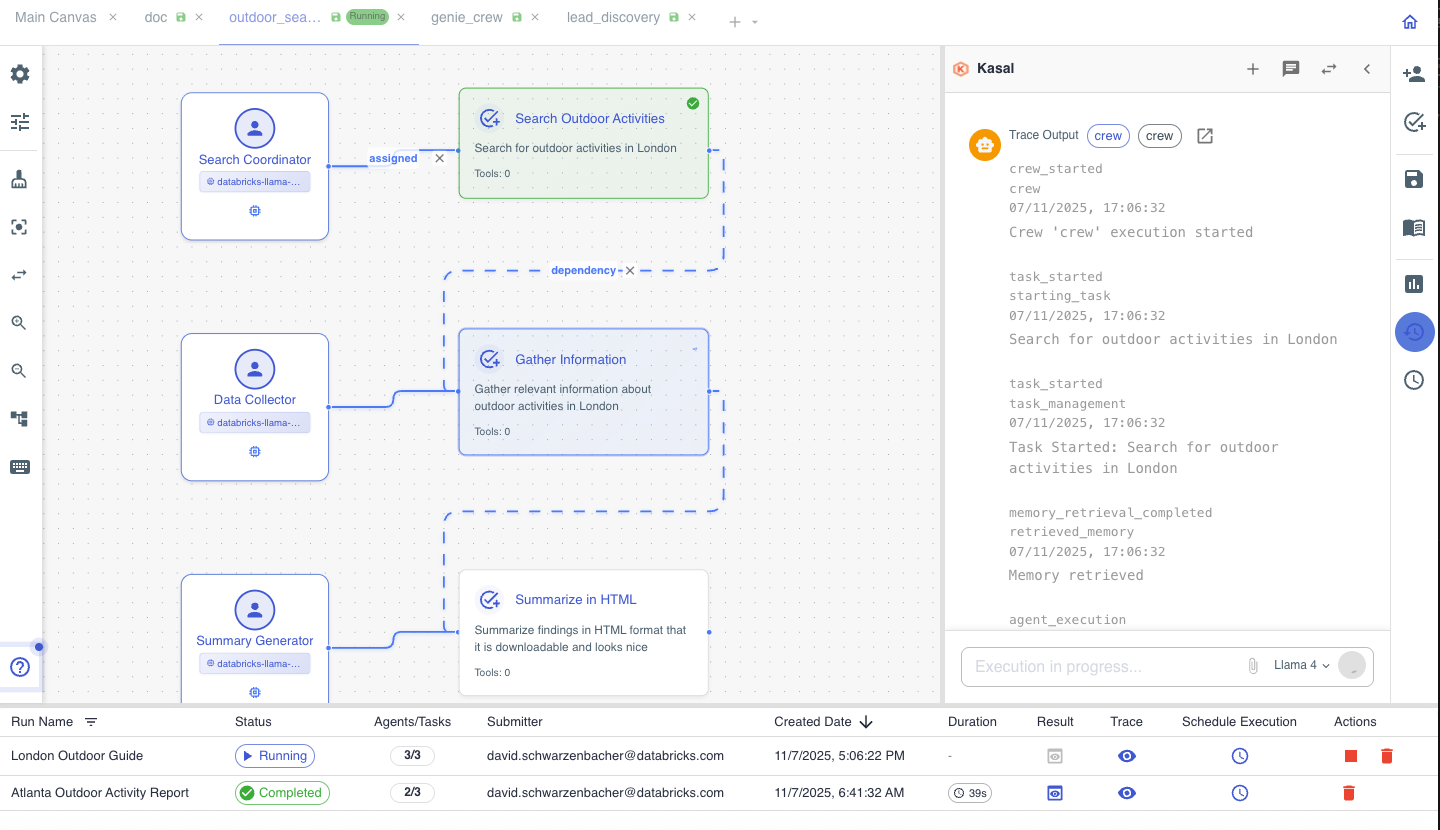
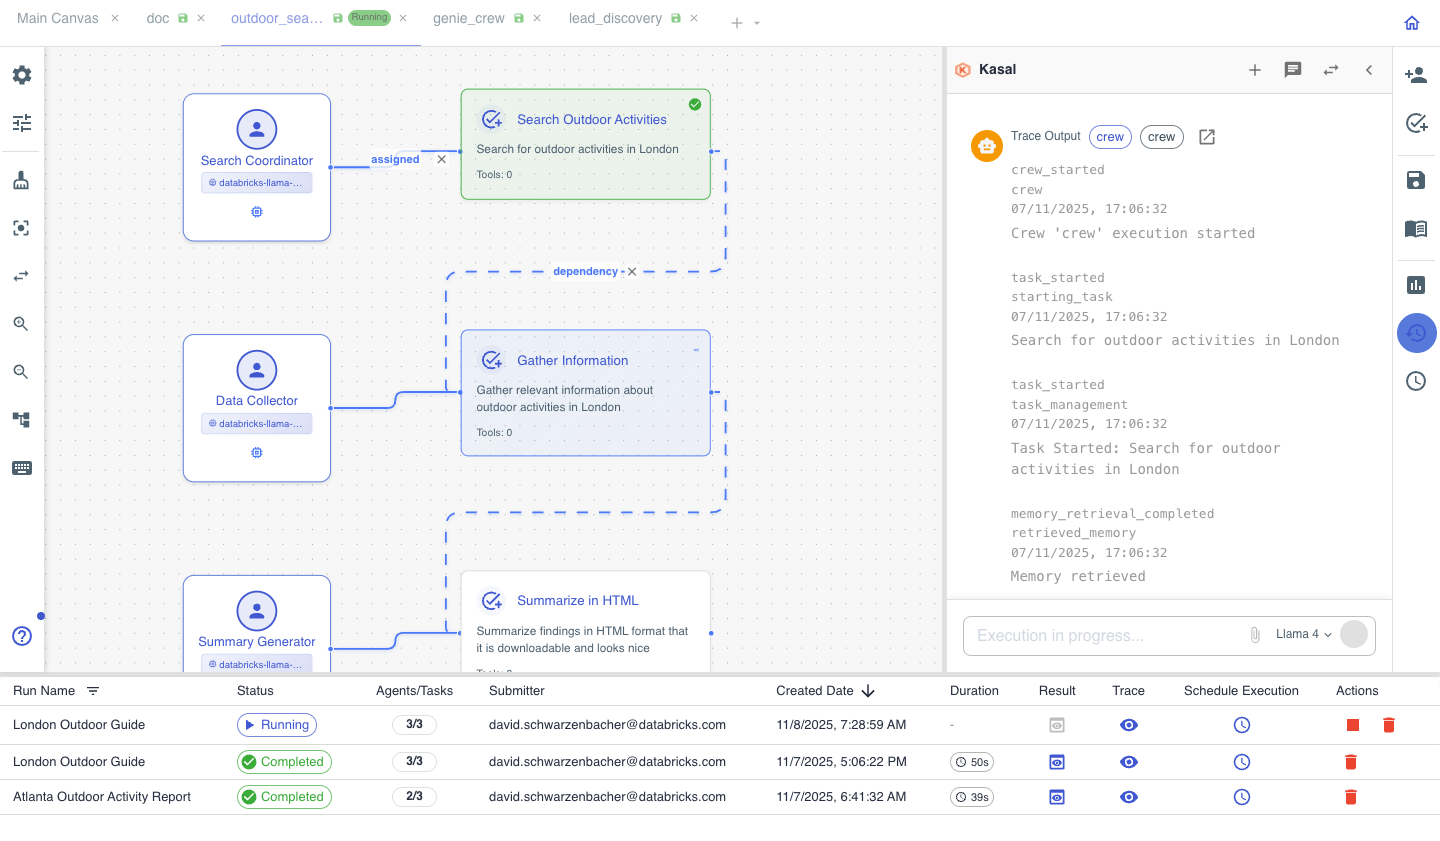
README optical fix

diff --git a/README.md b/README.md
@@ -1,5 +1,5 @@
-# Kasal
 ![Kasal Logo](./src/frontend/public/kasal-icon-32.png)
+# Kasal
 **Build intelligent AI agent workflows with visual simplicity and enterprise power.**
 
 [![YouTube Video](https://img.youtube.com/vi/0d5e5rSe5JI/0.jpg)](https://www.youtube.com/watch?v=0d5e5rSe5JI)